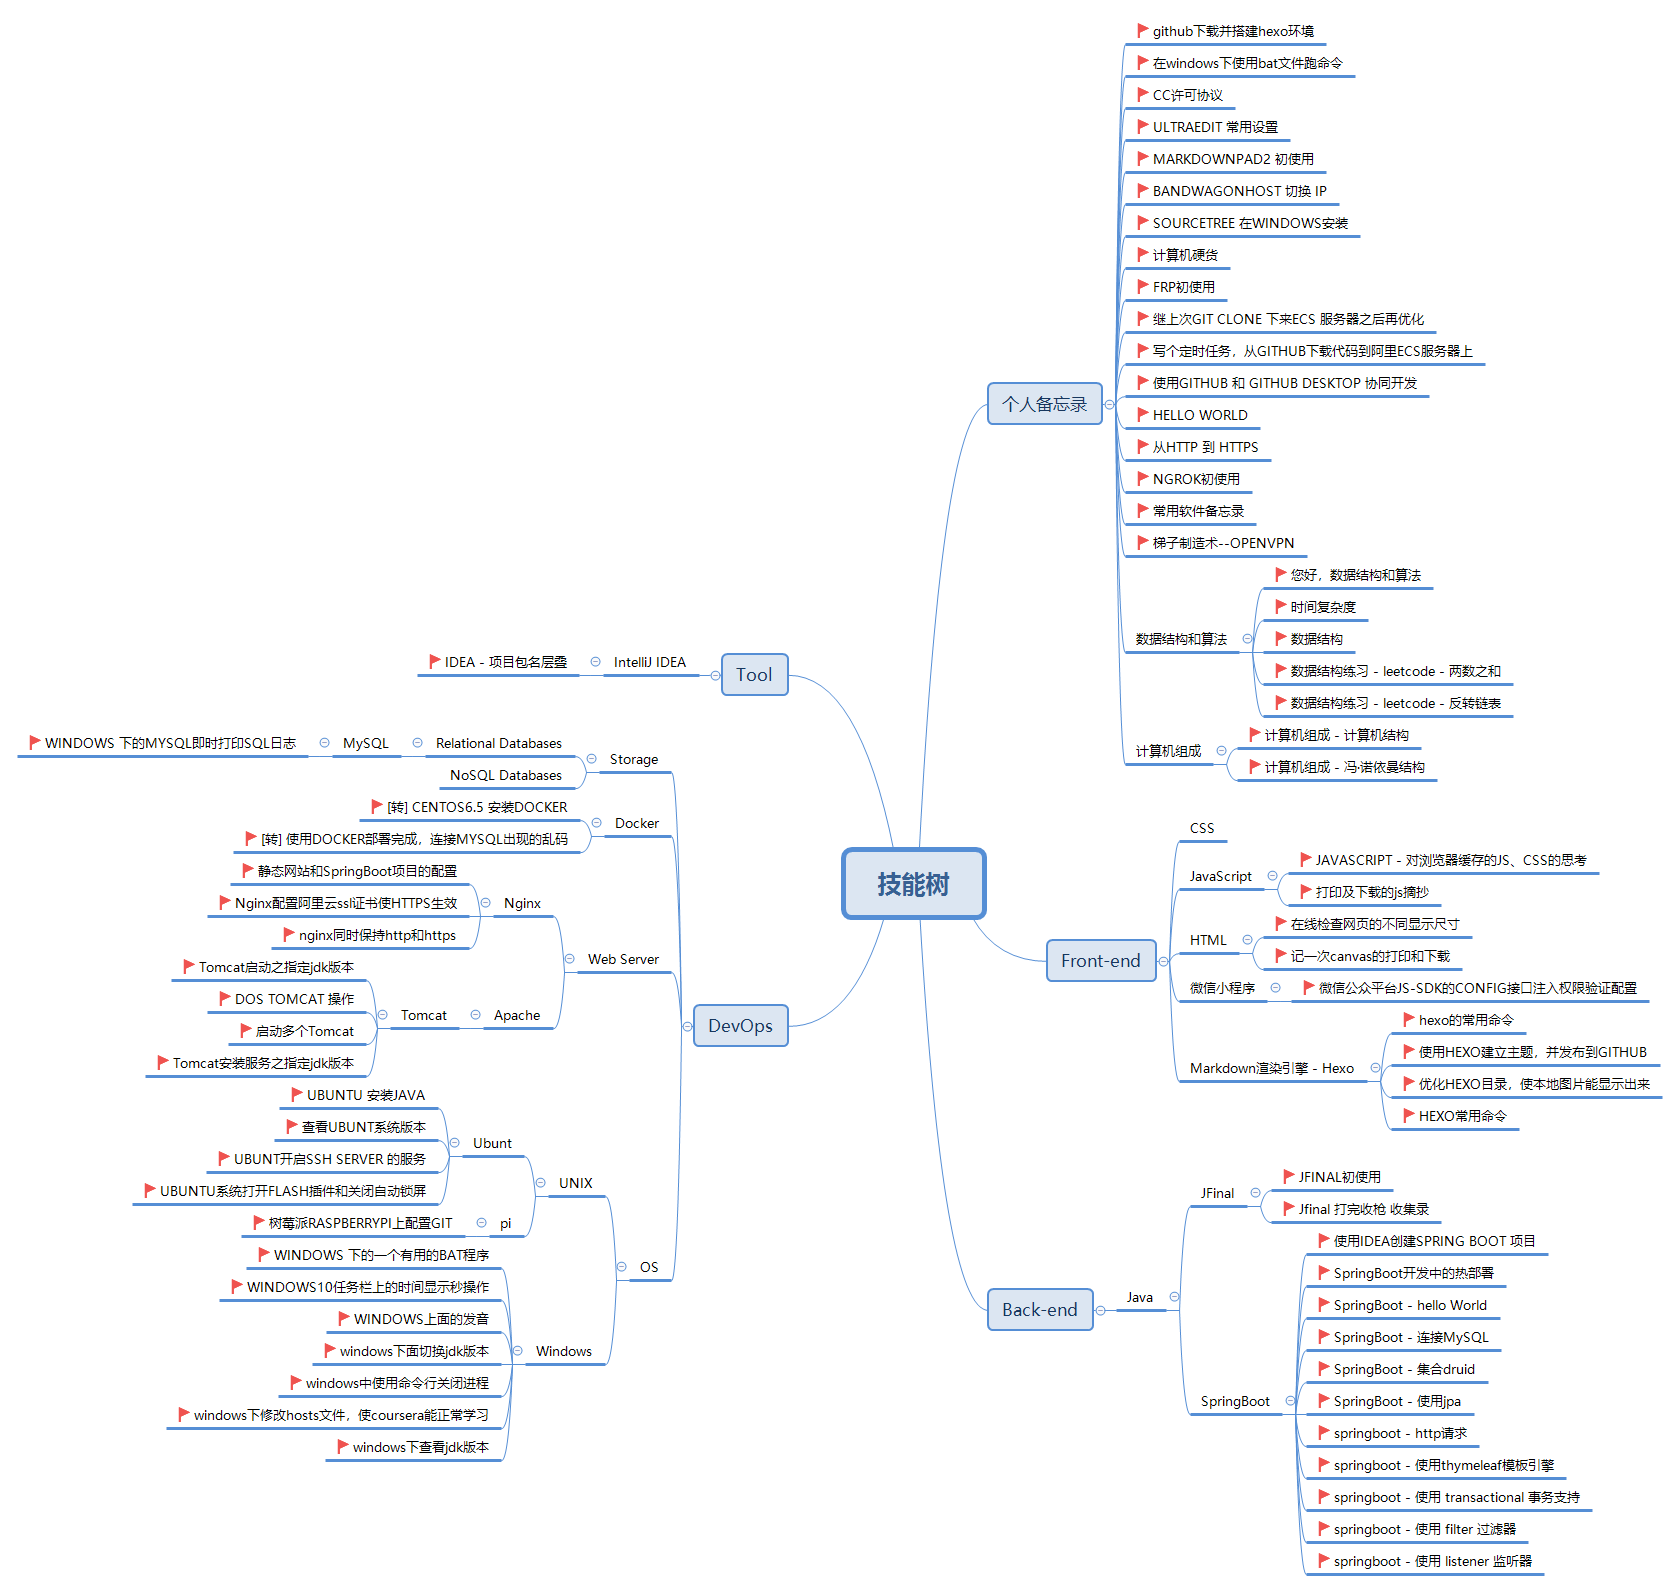
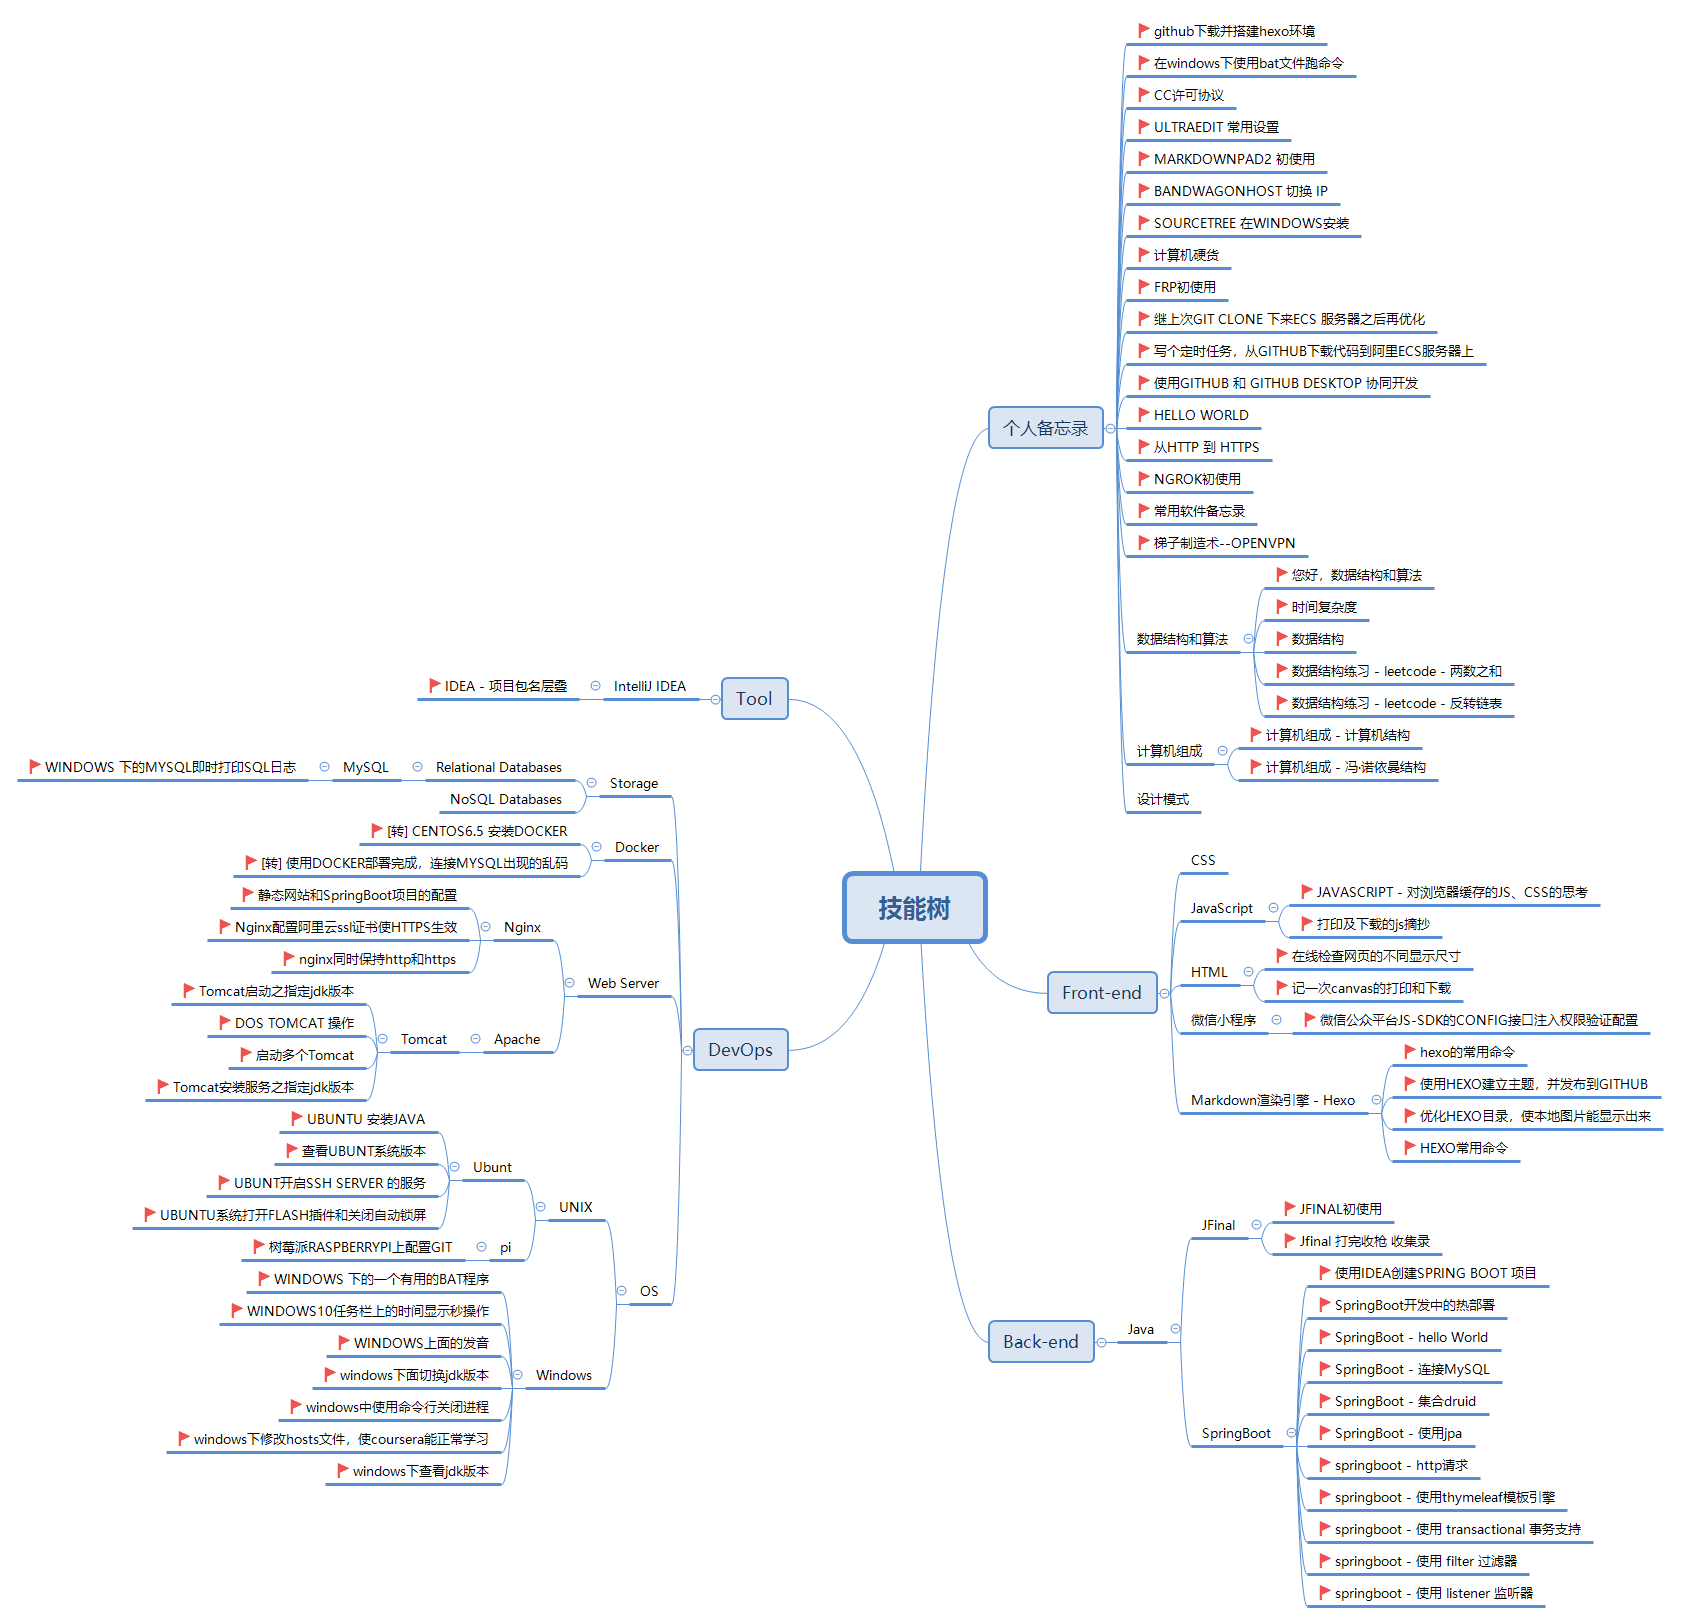
update readme

diff --git a/readme/index.html b/readme/index.html
@@ -34,6 +34,9 @@ github下载并搭建hexo环境:https://chanchifeng.com/2018/11/11/github-hexo-w
 <li>计算机组成 - 计算机结构:<a href="https://chanchifeng.com/2018/12/31/ComputerComposition101/" title="https://chanchifeng.com/2018/12/31/ComputerComposition101/" target="_blank" rel="noopener">https://chanchifeng.com/2018/12/31/ComputerComposition101/</a></li>
 <li>计算机组成 - 冯·诺依曼结构:<a href="https://chanchifeng.com/2019/01/06/ComputerComposition102/" title="https://chanchifeng.com/2019/01/06/ComputerComposition102/" target="_blank" rel="noopener">https://chanchifeng.com/2019/01/06/ComputerComposition102/</a></li>
 </ul>
+<h3 id="计算机组成-1"><a href="#计算机组成-1" class="headerlink" title="计算机组成"></a>计算机组成</h3><ul>
+<li></li>
+</ul>
 <h2 id="Front-end"><a href="#Front-end" class="headerlink" title="Front-end"></a>Front-end</h2><h3 id="HTML"><a href="#HTML" class="headerlink" title="HTML"></a>HTML</h3><ul>
 <li>在线检查网页的不同显示尺寸:<a href="https://chanchifeng.com/2018/10/24/ui/" title="https://chanchifeng.com/2018/10/24/ui/" target="_blank" rel="noopener">https://chanchifeng.com/2018/10/24/ui/</a></li>
 <li>记一次canvas的打印和下载：<a href="https://chanchifeng.com/2018/12/11/html-canvas/" title="https://chanchifeng.com/2018/12/11/html-canvas/" target="_blank" rel="noopener">https://chanchifeng.com/2018/12/11/html-canvas/</a></li>
